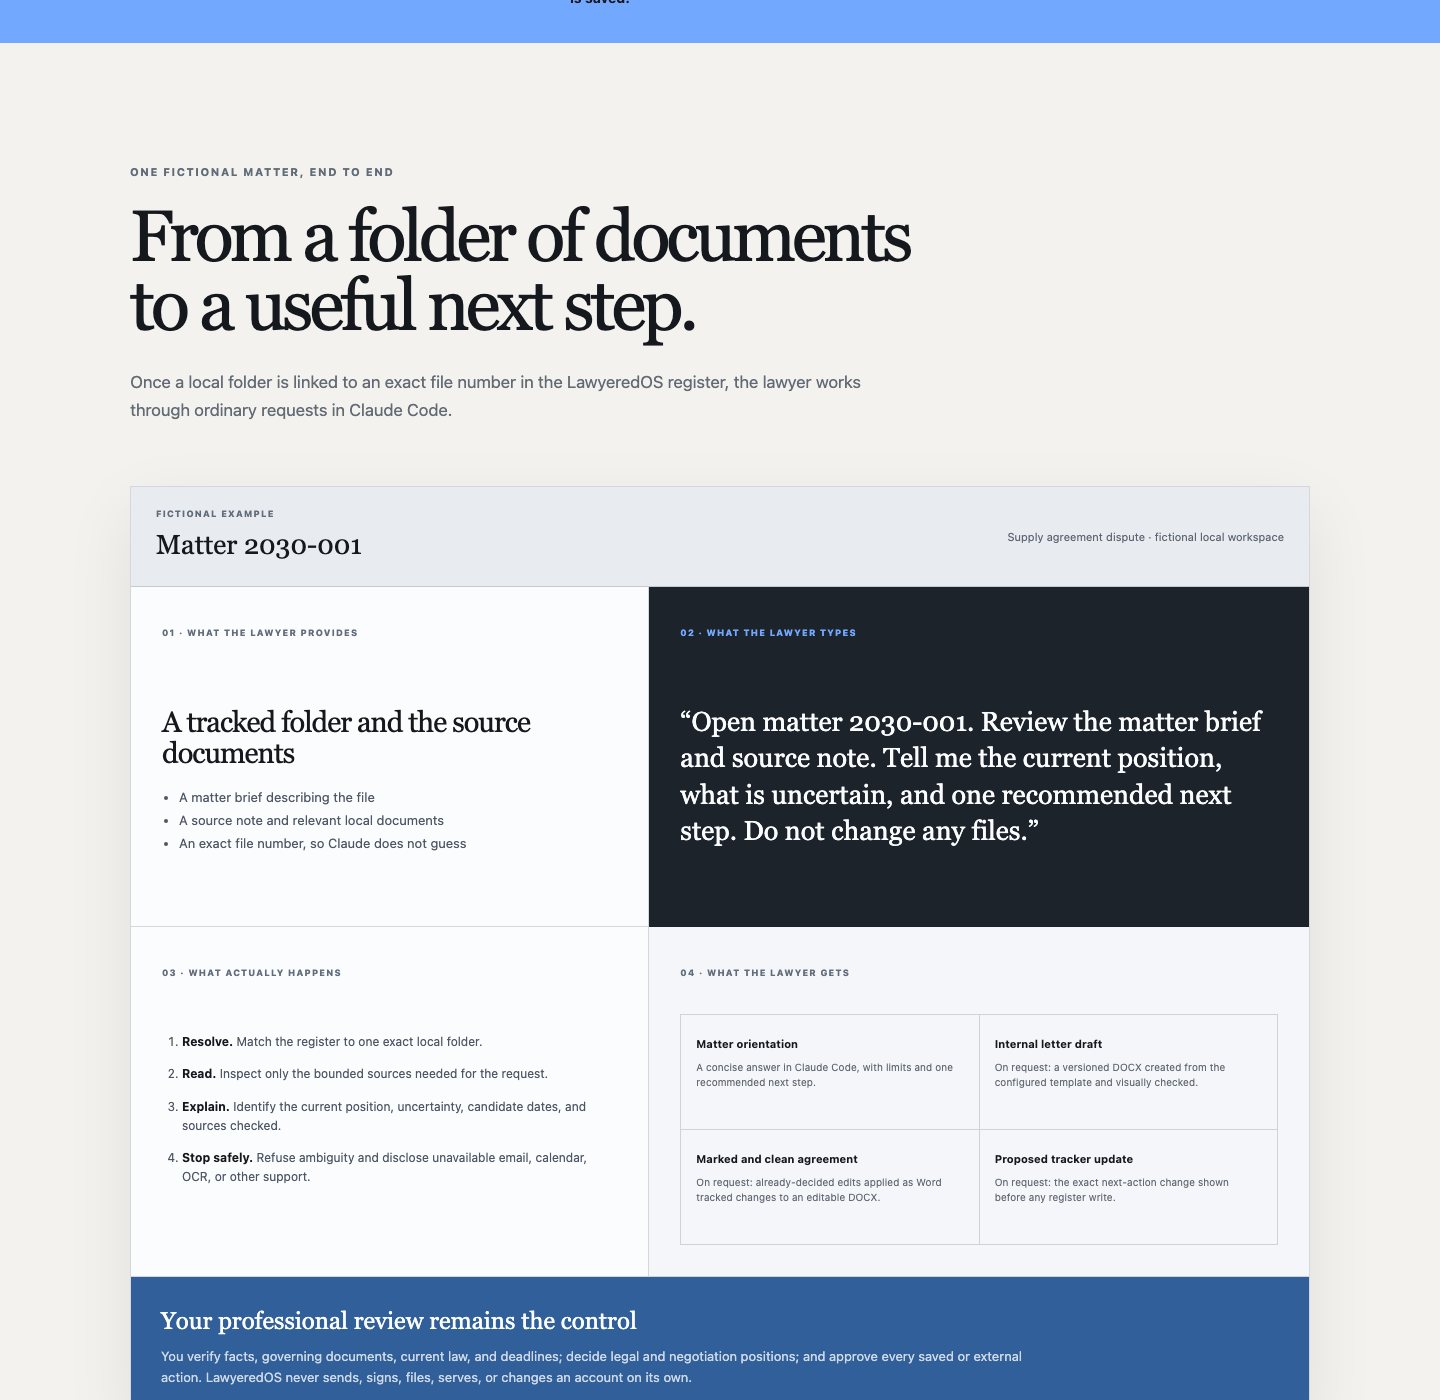
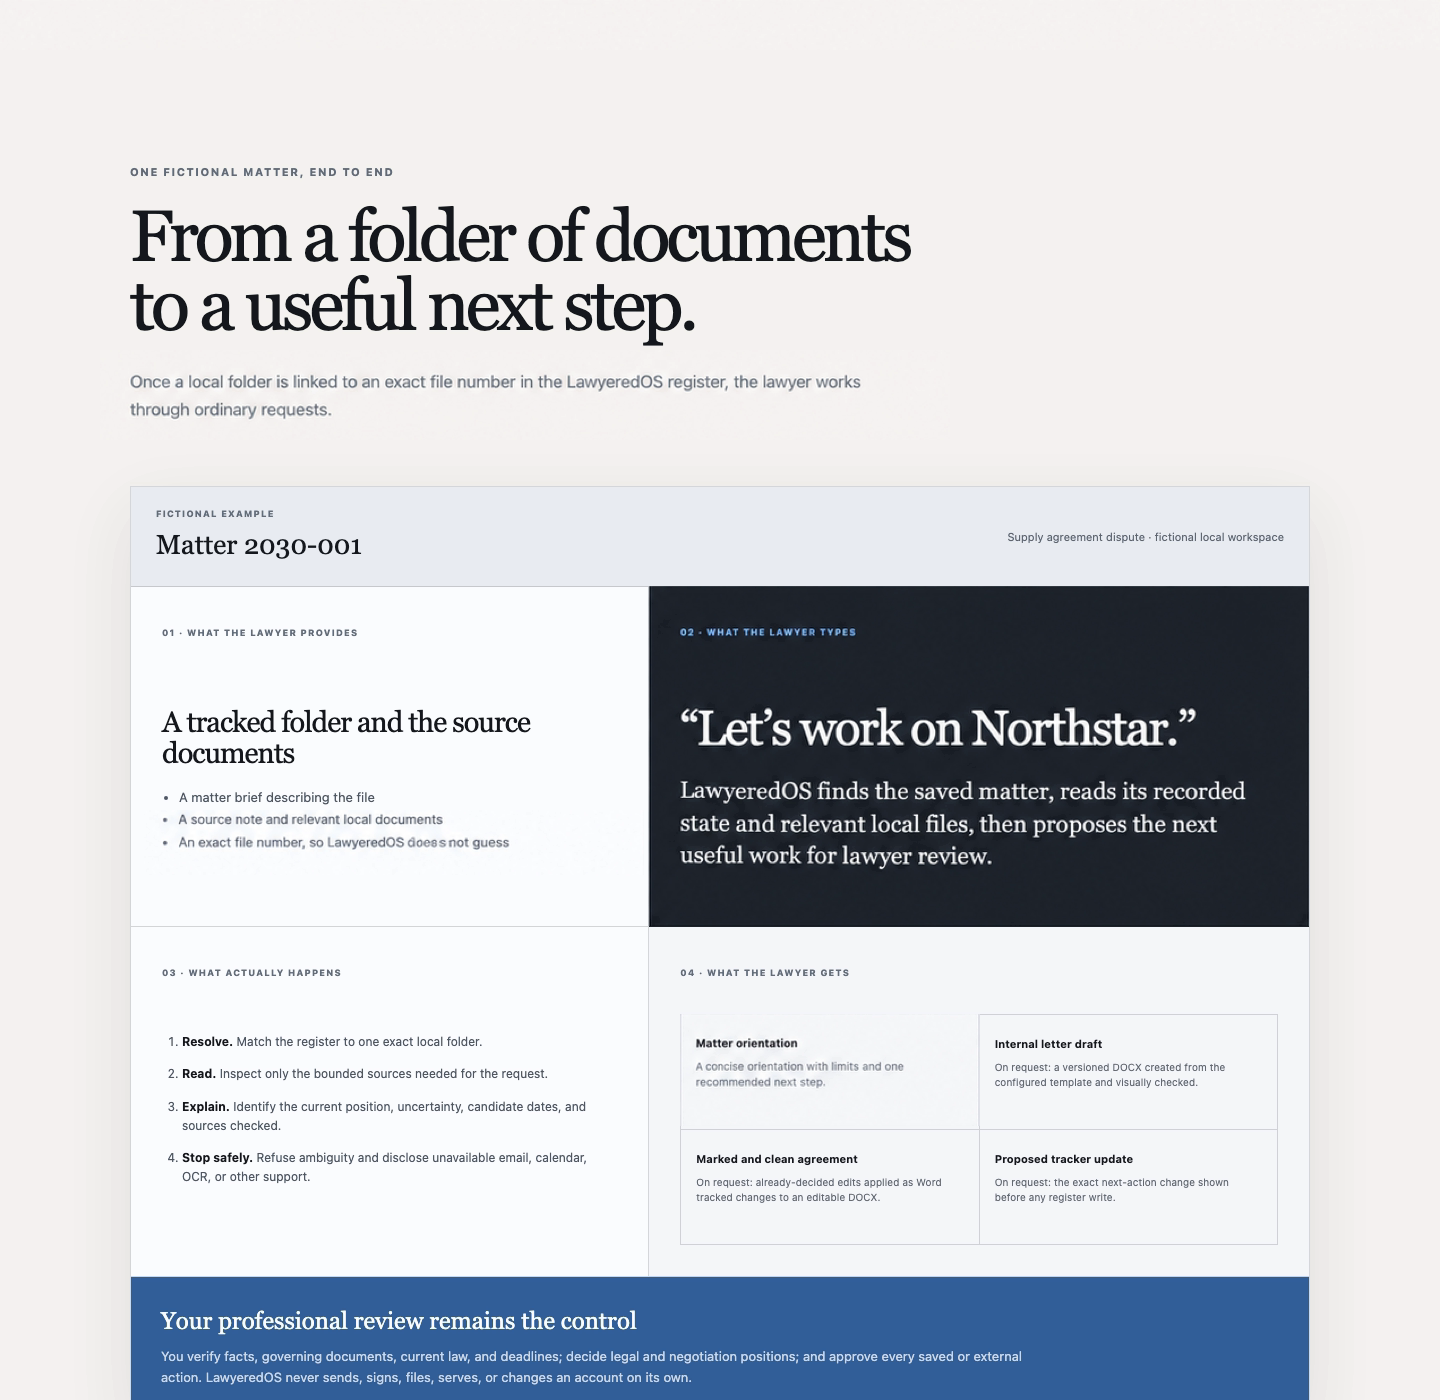
Clarify natural-language matter workflow

diff --git a/README.md b/README.md
@@ -56,31 +56,31 @@ Additional guidance: [installation](docs/INSTALL.md) ·
 
 ## Pick up a matter where you left it
 
-LawyeredOS uses the selected matter's files plus recorded workspace history and
-state—not an assumption that chat memory is complete. A typical read-only first
-request is:
+After setup, normal use is just a natural-language request:
 
-> Open matter 2030-001. Review the matter brief and source note. Tell me the
-> current position, what is uncertain, and one recommended next step. Do not
-> change any files.
+> Let’s work on Northstar.
 
-From there, ask separately for a draft, a decided redline, or a proposed
-tracker update. Material changes are previewed for approval. You remain
-responsible for checking the sources, exercising professional judgment, and
-deciding what to do.
+LawyeredOS then finds the one matching saved matter, reads its recorded state
+and relevant local files, summarizes where things stand, and proposes the next
+useful work for lawyer review. If the name is missing or ambiguous, it stops
+and asks instead of guessing. It does not assume chat memory is complete or
+claim that unavailable inbox, calendar, OCR, or other sources were checked.
+
+From there, say what you want to do next—for example, draft a response, review
+an agreement, or propose a tracker update. LawyeredOS does not send, file,
+sign, serve, or change an external account on its own. Guarded changes still
+require the applicable preview or approval. You remain responsible for
+checking the sources, exercising professional judgment, and deciding what to
+do.
 
 ## Screen the local register for potential conflicts
 
 The matter-tracker skill supports a read-only, case-insensitive name or term
 search across every open and closed matter in the local register. It checks the
 file number, client, description, opposing party, other parties, and primary
-email fields and returns candidate rows for lawyer review. For example:
+email fields and returns candidate rows for lawyer review. Ask naturally:
 
-```bash
-PYTHONPATH=src python3 -m lawyeredos.tracker_cli find \
-  --database /workspace/.lawyeredos/data/matters.sqlite3 \
-  --query "Harbor Paper" --status all
-```
+> Check Harbor Paper against all open and closed matters in the local register.
 
 This is conflict **screening**, not final conflict clearance. The register has
 no dedicated clearance-status field and the search does not perform fuzzy or
@@ -88,6 +88,9 @@ alias matching, identify undisclosed relationships, query external systems, or
 decide whether a conflict exists or can be waived. Record the terms, fields,
 register scope, results, and limitations, then apply the lawyer's own conflicts
 procedure and professional judgment.
+
+Maintainers and advanced users can find the equivalent command-line examples
+in [docs/EXAMPLES.md](docs/EXAMPLES.md).
 
 ## Included skills
 

diff --git a/docs/EXAMPLES.md b/docs/EXAMPLES.md
@@ -1,5 +1,10 @@
 # Examples
 
+In ordinary use, ask naturally—for example, `Let’s work on Northstar.` The
+installed skill resolves the saved matter and performs the read-only
+orientation workflow automatically. The commands below are technical examples
+for maintainers, testing, and troubleshooting; users do not need to type them.
+
 All names and file numbers below are fictional.
 
 ## Orient to a matter
